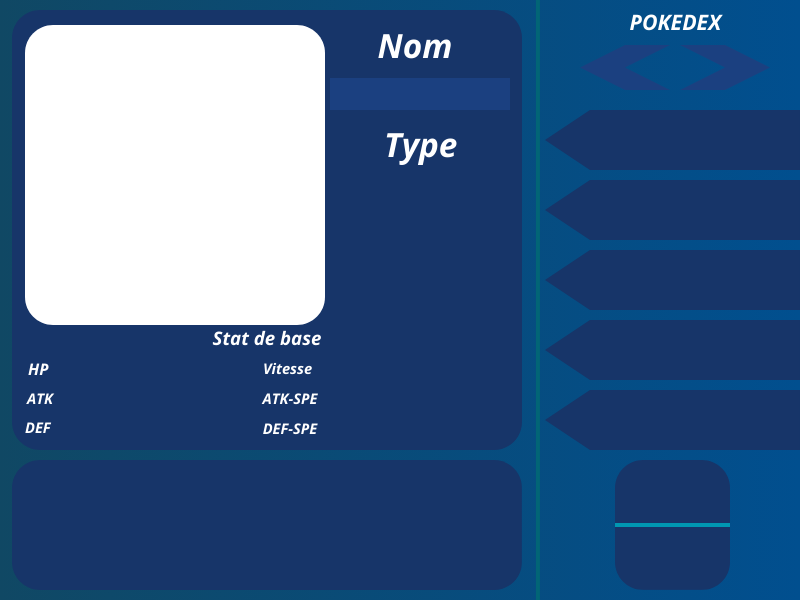
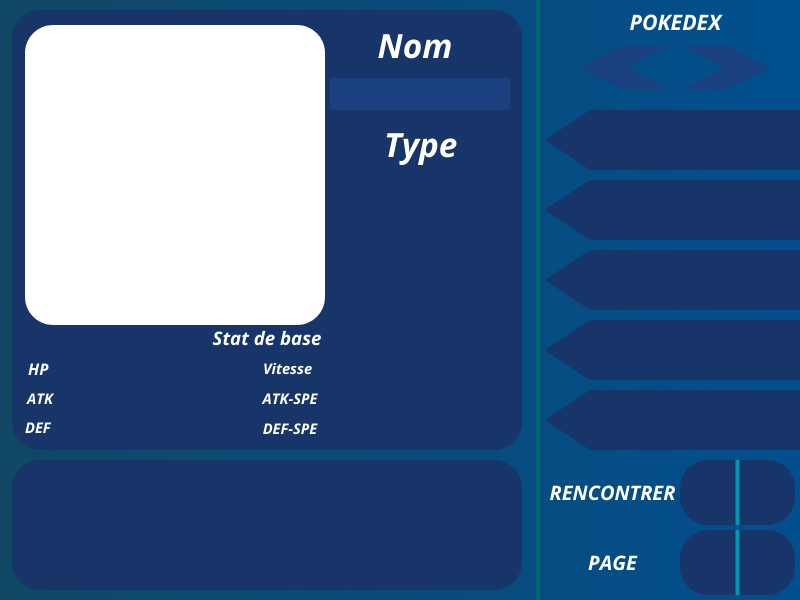
modif pokedex

Changed region(s): [[0.6875, 0.75, 1.0, 1.0]]

diff --git a/Code/pokedex.py b/Code/pokedex.py
@@ -23,6 +23,7 @@ class pokedex:
                     self.pok.append("unknown")
                 self.index_affichage = 5
         self.l_affichage = []
+        self.index_page = 1
         self.apok = AnimatedSprite(self.current_pokemon,"Face")
         self.apok.rect.center = (175, 175)
         
@@ -44,14 +45,18 @@ class pokedex:
                 x, y = pygame.mouse.get_pos()
                 if 680 <= x <= 770 and 45 <= y <= 90:
                     # Changer les cinq prochains Pokémon à afficher
+                    self.index_page +=1
                     self.index_affichage += 5
                     if self.index_affichage >= len(self.pok)+1:
                         self.index_affichage = 5
+                        self.index_page = 1
                 elif 580 <= x <= 670 and 45 <= y <= 90:
                     # Changer les cinq prochains Pokémon à afficher
                     self.index_affichage -= 5
+                    self.index_page -= 1
                     if self.index_affichage <= 0:
                         self.index_affichage = len(self.pok)
+                        self.index_page = 150//5
                 else:
                     for index, nom_pokemon in enumerate(self.l_affichage):
                         y_position = 130 + index * 70
@@ -82,10 +87,18 @@ class pokedex:
             self.ecran.blit(texte_surface, (600, y_position))
         
         nbrencontrer = self.font.render(str(self.rencontre),True,(255,255,255))
-        self.ecran.blit(nbrencontrer,nbrencontrer.get_rect(center=(673,495)))
+        self.ecran.blit(nbrencontrer,nbrencontrer.get_rect(center=(710,492)))
         
         nbTotal = self.font.render(str(len(self.pok)),True,(255,255,255))
-        self.ecran.blit(nbTotal,nbTotal.get_rect(center=(673,555)))
+        self.ecran.blit(nbTotal,nbTotal.get_rect(center=(765,492)))
+        
+        nbPageTotal = self.font.render("30",True,(255,255,255))
+        self.ecran.blit(nbPageTotal,nbPageTotal.get_rect(center=(765,563)))
+        
+        nbPage = self.font.render(str(self.index_page),True,(255,255,255))
+        self.ecran.blit(nbPage,nbPage.get_rect(center=(710,563)))
+
+
 
     def afficher_caracteristiques(self, nom_pokemon):
         if nom_pokemon != "unknown":
